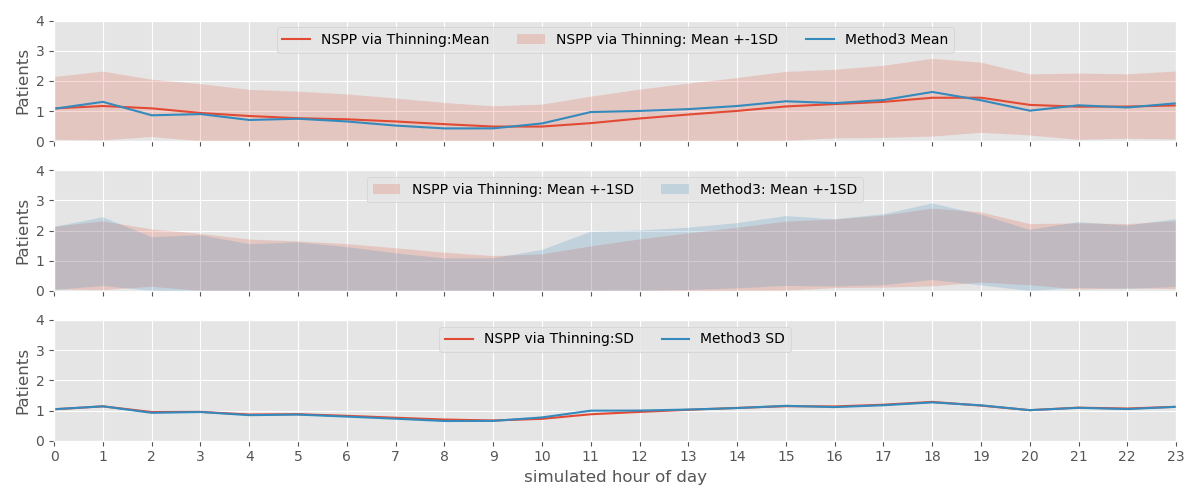
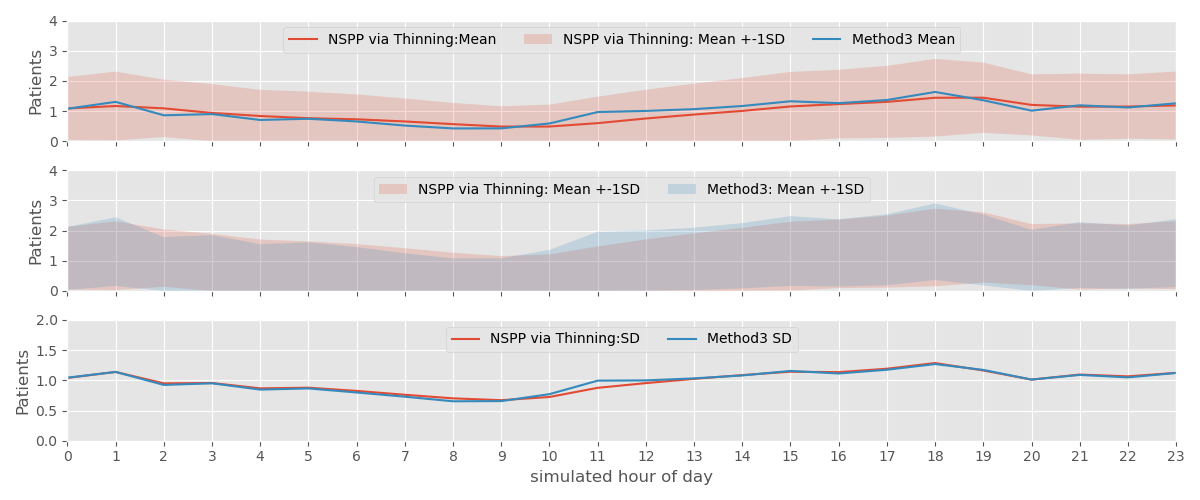
Built site for gh-pages

diff --git a/02_applied/02_thinning_ccu.html b/02_applied/02_thinning_ccu.html
@@ -7,7 +7,7 @@
 <meta name="viewport" content="width=device-width, initial-scale=1.0, user-scalable=yes">
 
 
-<title>CCU Arrivals - Time dependent arrivals via thinning</title>
+<title>CCU Arrivals - NSPP via thinning</title>
 <style>
 code{white-space: pre-wrap;}
 span.smallcaps{font-variant: small-caps;}
@@ -112,9 +112,7 @@ pre > code.sourceCode > span > a:first-child::before { text-decoration: underlin
       <button type="button" class="quarto-btn-toggle btn" data-bs-toggle="collapse" data-bs-target="#quarto-sidebar,#quarto-sidebar-glass" aria-controls="quarto-sidebar" aria-expanded="false" aria-label="Toggle sidebar navigation" onclick="if (window.quartoToggleHeadroom) { window.quartoToggleHeadroom(); }">
         <i class="bi bi-layout-text-sidebar-reverse"></i>
       </button>
-      <nav class="quarto-page-breadcrumbs" aria-label="breadcrumb"><ol class="breadcrumb"><li class="breadcrumb-item">
-      CCU Arrivals
-      </li></ol></nav>
+      <nav class="quarto-page-breadcrumbs" aria-label="breadcrumb"><ol class="breadcrumb"><li class="breadcrumb-item"><a href="../02_applied/01_method3_ccu.html">CCU example</a></li><li class="breadcrumb-item"><a href="../02_applied/02_thinning_ccu.html">NSPP via thinning</a></li></ol></nav>
       <a class="flex-grow-1" role="button" data-bs-toggle="collapse" data-bs-target="#quarto-sidebar,#quarto-sidebar-glass" aria-controls="quarto-sidebar" aria-expanded="false" aria-label="Toggle sidebar navigation" onclick="if (window.quartoToggleHeadroom) { window.quartoToggleHeadroom(); }">      
       </a>
       <button type="button" class="btn quarto-search-button" aria-label="" onclick="window.quartoOpenSearch();">
@@ -151,7 +149,7 @@ pre > code.sourceCode > span > a:first-child::before { text-decoration: underlin
           <li class="sidebar-item">
   <div class="sidebar-item-container"> 
   <a href="../abstract.html" class="sidebar-item-text sidebar-link">
- <span class="menu-text">Summary</span></a>
+ <span class="menu-text">Results Summary</span></a>
   </div>
 </li>
       </ul>
@@ -172,8 +170,11 @@ pre > code.sourceCode > span > a:first-child::before { text-decoration: underlin
   </div>
 </li>
           <li class="sidebar-item">
- <span class="menu-text">01_theory/01_thinning_banks.ipynb</span>
-  </li>
+  <div class="sidebar-item-container"> 
+  <a href="../01_theory/02_thinning_banks.html" class="sidebar-item-text sidebar-link">
+ <span class="menu-text">NSPP via thinning</span></a>
+  </div>
+</li>
       </ul>
   </li>
         <li class="sidebar-item sidebar-item-section">
@@ -192,13 +193,12 @@ pre > code.sourceCode > span > a:first-child::before { text-decoration: underlin
   </div>
 </li>
           <li class="sidebar-item">
- <span class="menu-text">02_applied/01_thinning_ccu.ipynb</span>
-  </li>
+  <div class="sidebar-item-container"> 
+  <a href="../02_applied/02_thinning_ccu.html" class="sidebar-item-text sidebar-link active">
+ <span class="menu-text">NSPP via thinning</span></a>
+  </div>
+</li>
       </ul>
-  </li>
-        <li class="sidebar-item sidebar-item-section">
-      <span class="sidebar-item-text sidebar-link text-start">
- <span class="menu-text">STRESS reporting</span></span>
   </li>
     </ul>
     </div>
@@ -224,7 +224,7 @@ pre > code.sourceCode > span > a:first-child::before { text-decoration: underlin
 
 <header id="title-block-header" class="quarto-title-block default">
 <div class="quarto-title">
-<h1 class="title">Time dependent arrivals via thinning</h1>
+<h1 class="title">NSPP via thinning</h1>
 </div>
 
 
@@ -653,7 +653,7 @@ pre > code.sourceCode > span > a:first-child::before { text-decoration: underlin
 <p><img src="02_thinning_ccu_files/figure-html/cell-10-output-1.png" class="img-fluid"></p>
 </div>
 </div>
-<div class="cell" data-execution_count="44">
+<div class="cell" data-execution_count="45">
 <div class="sourceCode cell-code" id="cb10"><pre class="sourceCode python code-with-copy"><code class="sourceCode python"><span id="cb10-1"><a href="#cb10-1" aria-hidden="true" tabindex="-1"></a>method3 <span class="op">=</span> pd.read_csv(<span class="st">"./ccu_method3.csv"</span>)</span>
 <span id="cb10-2"><a href="#cb10-2" aria-hidden="true" tabindex="-1"></a></span>
 <span id="cb10-3"><a href="#cb10-3" aria-hidden="true" tabindex="-1"></a><span class="co"># create figure and subplots</span></span>
@@ -685,9 +685,10 @@ pre > code.sourceCode > span > a:first-child::before { text-decoration: underlin
 <span id="cb10-29"><a href="#cb10-29" aria-hidden="true" tabindex="-1"></a><span class="co"># format axes</span></span>
 <span id="cb10-30"><a href="#cb10-30" aria-hidden="true" tabindex="-1"></a>_ <span class="op">=</span> plt.xticks(x_values)</span>
 <span id="cb10-31"><a href="#cb10-31" aria-hidden="true" tabindex="-1"></a></span>
-<span id="cb10-32"><a href="#cb10-32" aria-hidden="true" tabindex="-1"></a>axs[<span class="dv">2</span>].set_xlabel(<span class="st">"simulated hour of day"</span>)</span>
-<span id="cb10-33"><a href="#cb10-33" aria-hidden="true" tabindex="-1"></a></span>
-<span id="cb10-34"><a href="#cb10-34" aria-hidden="true" tabindex="-1"></a>fig.savefig(<span class="st">"./comparison_weekday.png"</span>)</span></code><button title="Copy to Clipboard" class="code-copy-button"><i class="bi"></i></button></pre></div>
+<span id="cb10-32"><a href="#cb10-32" aria-hidden="true" tabindex="-1"></a>_ <span class="op">=</span> axs[<span class="dv">2</span>].set_ylim(<span class="dv">0</span>, <span class="fl">2.0</span>)</span>
+<span id="cb10-33"><a href="#cb10-33" aria-hidden="true" tabindex="-1"></a>_ <span class="op">=</span> axs[<span class="dv">2</span>].set_xlabel(<span class="st">"simulated hour of day"</span>)</span>
+<span id="cb10-34"><a href="#cb10-34" aria-hidden="true" tabindex="-1"></a></span>
+<span id="cb10-35"><a href="#cb10-35" aria-hidden="true" tabindex="-1"></a>fig.savefig(<span class="st">"./comparison_weekday.png"</span>)</span></code><button title="Copy to Clipboard" class="code-copy-button"><i class="bi"></i></button></pre></div>
 <div class="cell-output cell-output-display">
 <p><img src="02_thinning_ccu_files/figure-html/cell-11-output-1.png" class="img-fluid"></p>
 </div>

diff --git a/01_theory/02_thinning_banks.html b/01_theory/02_thinning_banks.html
@@ -7,7 +7,7 @@
 <meta name="viewport" content="width=device-width, initial-scale=1.0, user-scalable=yes">
 
 
-<title>CCU Arrivals - Time dependent arrivals via thinning</title>
+<title>CCU Arrivals - NSPP via thinning</title>
 <style>
 code{white-space: pre-wrap;}
 span.smallcaps{font-variant: small-caps;}
@@ -112,9 +112,7 @@ pre > code.sourceCode > span > a:first-child::before { text-decoration: underlin
       <button type="button" class="quarto-btn-toggle btn" data-bs-toggle="collapse" data-bs-target="#quarto-sidebar,#quarto-sidebar-glass" aria-controls="quarto-sidebar" aria-expanded="false" aria-label="Toggle sidebar navigation" onclick="if (window.quartoToggleHeadroom) { window.quartoToggleHeadroom(); }">
         <i class="bi bi-layout-text-sidebar-reverse"></i>
       </button>
-      <nav class="quarto-page-breadcrumbs" aria-label="breadcrumb"><ol class="breadcrumb"><li class="breadcrumb-item">
-      CCU Arrivals
-      </li></ol></nav>
+      <nav class="quarto-page-breadcrumbs" aria-label="breadcrumb"><ol class="breadcrumb"><li class="breadcrumb-item"><a href="../01_theory/01_method3_banks.html">Theorectical example</a></li><li class="breadcrumb-item"><a href="../01_theory/02_thinning_banks.html">NSPP via thinning</a></li></ol></nav>
       <a class="flex-grow-1" role="button" data-bs-toggle="collapse" data-bs-target="#quarto-sidebar,#quarto-sidebar-glass" aria-controls="quarto-sidebar" aria-expanded="false" aria-label="Toggle sidebar navigation" onclick="if (window.quartoToggleHeadroom) { window.quartoToggleHeadroom(); }">      
       </a>
       <button type="button" class="btn quarto-search-button" aria-label="" onclick="window.quartoOpenSearch();">
@@ -151,7 +149,7 @@ pre > code.sourceCode > span > a:first-child::before { text-decoration: underlin
           <li class="sidebar-item">
   <div class="sidebar-item-container"> 
   <a href="../abstract.html" class="sidebar-item-text sidebar-link">
- <span class="menu-text">Summary</span></a>
+ <span class="menu-text">Results Summary</span></a>
   </div>
 </li>
       </ul>
@@ -172,8 +170,11 @@ pre > code.sourceCode > span > a:first-child::before { text-decoration: underlin
   </div>
 </li>
           <li class="sidebar-item">
- <span class="menu-text">01_theory/01_thinning_banks.ipynb</span>
-  </li>
+  <div class="sidebar-item-container"> 
+  <a href="../01_theory/02_thinning_banks.html" class="sidebar-item-text sidebar-link active">
+ <span class="menu-text">NSPP via thinning</span></a>
+  </div>
+</li>
       </ul>
   </li>
         <li class="sidebar-item sidebar-item-section">
@@ -192,13 +193,12 @@ pre > code.sourceCode > span > a:first-child::before { text-decoration: underlin
   </div>
 </li>
           <li class="sidebar-item">
- <span class="menu-text">02_applied/01_thinning_ccu.ipynb</span>
-  </li>
+  <div class="sidebar-item-container"> 
+  <a href="../02_applied/02_thinning_ccu.html" class="sidebar-item-text sidebar-link">
+ <span class="menu-text">NSPP via thinning</span></a>
+  </div>
+</li>
       </ul>
-  </li>
-        <li class="sidebar-item sidebar-item-section">
-      <span class="sidebar-item-text sidebar-link text-start">
- <span class="menu-text">STRESS reporting</span></span>
   </li>
     </ul>
     </div>
@@ -223,7 +223,7 @@ pre > code.sourceCode > span > a:first-child::before { text-decoration: underlin
 
 <header id="title-block-header" class="quarto-title-block default">
 <div class="quarto-title">
-<h1 class="title">Time dependent arrivals via thinning</h1>
+<h1 class="title">NSPP via thinning</h1>
 </div>
 
 

diff --git a/abstract.html b/abstract.html
@@ -9,7 +9,7 @@
 <meta name="author" content="Thomas Monks">
 <meta name="dcterms.date" content="2024-06-22">
 
-<title>CCU Arrivals - Summary</title>
+<title>CCU Arrivals - Results Summary</title>
 <style>
 code{white-space: pre-wrap;}
 span.smallcaps{font-variant: small-caps;}
@@ -75,7 +75,7 @@ ul.task-list li input[type="checkbox"] {
       <button type="button" class="quarto-btn-toggle btn" data-bs-toggle="collapse" data-bs-target="#quarto-sidebar,#quarto-sidebar-glass" aria-controls="quarto-sidebar" aria-expanded="false" aria-label="Toggle sidebar navigation" onclick="if (window.quartoToggleHeadroom) { window.quartoToggleHeadroom(); }">
         <i class="bi bi-layout-text-sidebar-reverse"></i>
       </button>
-      <nav class="quarto-page-breadcrumbs" aria-label="breadcrumb"><ol class="breadcrumb"><li class="breadcrumb-item"><a href="./abstract.html">Introduction</a></li><li class="breadcrumb-item"><a href="./abstract.html">Summary</a></li></ol></nav>
+      <nav class="quarto-page-breadcrumbs" aria-label="breadcrumb"><ol class="breadcrumb"><li class="breadcrumb-item"><a href="./abstract.html">Introduction</a></li><li class="breadcrumb-item"><a href="./abstract.html">Results Summary</a></li></ol></nav>
       <a class="flex-grow-1" role="button" data-bs-toggle="collapse" data-bs-target="#quarto-sidebar,#quarto-sidebar-glass" aria-controls="quarto-sidebar" aria-expanded="false" aria-label="Toggle sidebar navigation" onclick="if (window.quartoToggleHeadroom) { window.quartoToggleHeadroom(); }">      
       </a>
       <button type="button" class="btn quarto-search-button" aria-label="" onclick="window.quartoOpenSearch();">
@@ -112,7 +112,7 @@ ul.task-list li input[type="checkbox"] {
           <li class="sidebar-item">
   <div class="sidebar-item-container"> 
   <a href="./abstract.html" class="sidebar-item-text sidebar-link active">
- <span class="menu-text">Summary</span></a>
+ <span class="menu-text">Results Summary</span></a>
   </div>
 </li>
       </ul>
@@ -133,8 +133,11 @@ ul.task-list li input[type="checkbox"] {
   </div>
 </li>
           <li class="sidebar-item">
- <span class="menu-text">01_theory/01_thinning_banks.ipynb</span>
-  </li>
+  <div class="sidebar-item-container"> 
+  <a href="./01_theory/02_thinning_banks.html" class="sidebar-item-text sidebar-link">
+ <span class="menu-text">NSPP via thinning</span></a>
+  </div>
+</li>
       </ul>
   </li>
         <li class="sidebar-item sidebar-item-section">
@@ -153,13 +156,12 @@ ul.task-list li input[type="checkbox"] {
   </div>
 </li>
           <li class="sidebar-item">
- <span class="menu-text">02_applied/01_thinning_ccu.ipynb</span>
-  </li>
+  <div class="sidebar-item-container"> 
+  <a href="./02_applied/02_thinning_ccu.html" class="sidebar-item-text sidebar-link">
+ <span class="menu-text">NSPP via thinning</span></a>
+  </div>
+</li>
       </ul>
-  </li>
-        <li class="sidebar-item sidebar-item-section">
-      <span class="sidebar-item-text sidebar-link text-start">
- <span class="menu-text">STRESS reporting</span></span>
   </li>
     </ul>
     </div>
@@ -183,7 +185,7 @@ ul.task-list li input[type="checkbox"] {
 
 <header id="title-block-header" class="quarto-title-block default">
 <div class="quarto-title">
-<h1 class="title">Summary</h1>
+<h1 class="title">Results Summary</h1>
 </div>
 
 

diff --git a/01_theory/01_method3_banks.html b/01_theory/01_method3_banks.html
@@ -149,7 +149,7 @@ pre > code.sourceCode > span > a:first-child::before { text-decoration: underlin
           <li class="sidebar-item">
   <div class="sidebar-item-container"> 
   <a href="../abstract.html" class="sidebar-item-text sidebar-link">
- <span class="menu-text">Summary</span></a>
+ <span class="menu-text">Results Summary</span></a>
   </div>
 </li>
       </ul>
@@ -170,8 +170,11 @@ pre > code.sourceCode > span > a:first-child::before { text-decoration: underlin
   </div>
 </li>
           <li class="sidebar-item">
- <span class="menu-text">01_theory/01_thinning_banks.ipynb</span>
-  </li>
+  <div class="sidebar-item-container"> 
+  <a href="../01_theory/02_thinning_banks.html" class="sidebar-item-text sidebar-link">
+ <span class="menu-text">NSPP via thinning</span></a>
+  </div>
+</li>
       </ul>
   </li>
         <li class="sidebar-item sidebar-item-section">
@@ -190,13 +193,12 @@ pre > code.sourceCode > span > a:first-child::before { text-decoration: underlin
   </div>
 </li>
           <li class="sidebar-item">
- <span class="menu-text">02_applied/01_thinning_ccu.ipynb</span>
-  </li>
+  <div class="sidebar-item-container"> 
+  <a href="../02_applied/02_thinning_ccu.html" class="sidebar-item-text sidebar-link">
+ <span class="menu-text">NSPP via thinning</span></a>
+  </div>
+</li>
       </ul>
-  </li>
-        <li class="sidebar-item sidebar-item-section">
-      <span class="sidebar-item-text sidebar-link text-start">
- <span class="menu-text">STRESS reporting</span></span>
   </li>
     </ul>
     </div>

diff --git a/02_applied/01_method3_ccu.html b/02_applied/01_method3_ccu.html
@@ -147,7 +147,7 @@ pre > code.sourceCode > span > a:first-child::before { text-decoration: underlin
           <li class="sidebar-item">
   <div class="sidebar-item-container"> 
   <a href="../abstract.html" class="sidebar-item-text sidebar-link">
- <span class="menu-text">Summary</span></a>
+ <span class="menu-text">Results Summary</span></a>
   </div>
 </li>
       </ul>
@@ -168,8 +168,11 @@ pre > code.sourceCode > span > a:first-child::before { text-decoration: underlin
   </div>
 </li>
           <li class="sidebar-item">
- <span class="menu-text">01_theory/01_thinning_banks.ipynb</span>
-  </li>
+  <div class="sidebar-item-container"> 
+  <a href="../01_theory/02_thinning_banks.html" class="sidebar-item-text sidebar-link">
+ <span class="menu-text">NSPP via thinning</span></a>
+  </div>
+</li>
       </ul>
   </li>
         <li class="sidebar-item sidebar-item-section">
@@ -188,13 +191,12 @@ pre > code.sourceCode > span > a:first-child::before { text-decoration: underlin
   </div>
 </li>
           <li class="sidebar-item">
- <span class="menu-text">02_applied/01_thinning_ccu.ipynb</span>
-  </li>
+  <div class="sidebar-item-container"> 
+  <a href="../02_applied/02_thinning_ccu.html" class="sidebar-item-text sidebar-link">
+ <span class="menu-text">NSPP via thinning</span></a>
+  </div>
+</li>
       </ul>
-  </li>
-        <li class="sidebar-item sidebar-item-section">
-      <span class="sidebar-item-text sidebar-link text-start">
- <span class="menu-text">STRESS reporting</span></span>
   </li>
     </ul>
     </div>

diff --git a/index.html b/index.html
@@ -114,7 +114,7 @@ ul.task-list li input[type="checkbox"] {
           <li class="sidebar-item">
   <div class="sidebar-item-container"> 
   <a href="./abstract.html" class="sidebar-item-text sidebar-link">
- <span class="menu-text">Summary</span></a>
+ <span class="menu-text">Results Summary</span></a>
   </div>
 </li>
       </ul>
@@ -135,8 +135,11 @@ ul.task-list li input[type="checkbox"] {
   </div>
 </li>
           <li class="sidebar-item">
- <span class="menu-text">01_theory/01_thinning_banks.ipynb</span>
-  </li>
+  <div class="sidebar-item-container"> 
+  <a href="./01_theory/02_thinning_banks.html" class="sidebar-item-text sidebar-link">
+ <span class="menu-text">NSPP via thinning</span></a>
+  </div>
+</li>
       </ul>
   </li>
         <li class="sidebar-item sidebar-item-section">
@@ -155,13 +158,12 @@ ul.task-list li input[type="checkbox"] {
   </div>
 </li>
           <li class="sidebar-item">
- <span class="menu-text">02_applied/01_thinning_ccu.ipynb</span>
-  </li>
+  <div class="sidebar-item-container"> 
+  <a href="./02_applied/02_thinning_ccu.html" class="sidebar-item-text sidebar-link">
+ <span class="menu-text">NSPP via thinning</span></a>
+  </div>
+</li>
       </ul>
-  </li>
-        <li class="sidebar-item sidebar-item-section">
-      <span class="sidebar-item-text sidebar-link text-start">
- <span class="menu-text">STRESS reporting</span></span>
   </li>
     </ul>
     </div>
